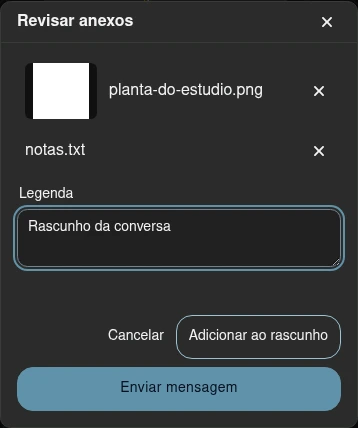
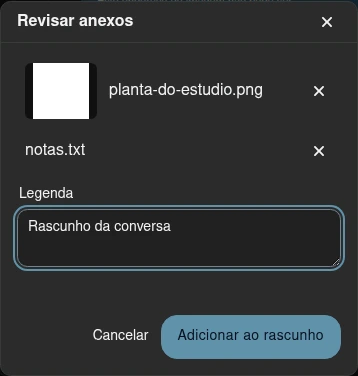
Documentar o menu de anexos e localização

diff --git a/content/docs/manual/index.md b/content/docs/manual/index.md
@@ -58,19 +58,21 @@ Os resultados destacam os termos encontrados e mostram a conta e a conversa de o
 
 Os atalhos **Mídia**, **Links** e **Documentos** abrem o catálogo com o mesmo texto de busca e as contas selecionadas. Para uma consulta rápida em todas as contas, use [Ctrl + K ou ⌘ + K](../atalhos/index.md#busca-geral). A consulta dessa janela é independente da busca da lista.
 
-## Enviar arquivos
+## Adicionar arquivos e localização
 
 A revisão de anexos ao colar ou arrastar arquivos está disponível em compilações de desenvolvimento que incluem essa mudança. O instalador publicado da v0.0.1-rc.8 é anterior a esse recurso.
 
-No navegador, cole uma imagem ou um arquivo no campo de mensagem ou arraste arquivos para a conversa. Você também pode selecionar os arquivos em **Adicionar anexo**. Na janela **Revisar anexos**, confira os arquivos, ajuste a legenda e remova o que não quiser enviar.
+Na conversa, abra **+** e escolha **Imagem**, **Arquivo** ou **Localização**. No navegador, também dá para colar uma imagem ou um arquivo no campo de mensagem ou arrastá-lo para a conversa.
 
-![Janela Revisar anexos com uma imagem, um arquivo de texto, o campo Legenda e as opções de rascunho ou envio.](imagens/revisar-anexos.webp)
+Em **Revisar anexos**, confira os arquivos, ajuste a legenda e remova o que precisar. **Adicionar ao rascunho** guarda a legenda e os anexos. **Cancelar** ou **Esc** mantém o rascunho anterior.
+
+![Janela Revisar anexos com uma imagem, um arquivo de texto, o campo Legenda e o botão Adicionar ao rascunho.](imagens/revisar-anexos.webp)
 
 [Ver a captura da revisão de anexos no tamanho original](imagens/revisar-anexos.webp)
 
-- **Enviar mensagem** envia os arquivos selecionados junto com a legenda.
-- **Adicionar ao rascunho** guarda a legenda e os anexos na conversa. Use essa opção também se quiser agendar o envio.
-- **Cancelar** ou **Esc** fecha a revisão e mantém o rascunho que você já tinha.
+Em **Localização**, cole um link de mapa ou escolha **Usar localização atual**, quando disponível. Use **Adicionar ao rascunho** para incluir o link no texto da conversa.
+
+Quando o rascunho estiver pronto, use **Enviar mensagem** na conversa ou escolha **Agendar mensagem** no menu de envio.
 
 O Oiê aceita até 16 arquivos de 20 MiB por mensagem. O serviço XMPP pode impor um limite menor ou não oferecer envio de arquivos. Quem recebe a mensagem pode baixar os arquivos pelos links enviados junto com a legenda.
 

diff --git a/README.md b/README.md
@@ -29,7 +29,7 @@ A página **Baixar** aponta para os binários e para o código-fonte corresponde
 
 O manual, os atalhos, os exemplos do CLI e os guias de instalação e arquitetura foram revisados com a [main do aplicativo em 9929391](https://github.com/araihu/oie/tree/9929391579532045b61fcad8d8883f7e3a351215) e a [v0.0.1-rc.3](https://github.com/araihu/oie/releases/tag/v0.0.1-rc.3). Ao atualizar, registre o SHA das páginas revisadas e confira as notas da versão oferecida em **Baixar**. O contrato HTTP fica no [catálogo OpenAPI da Arai Hû](https://oapi.araihu.com/catalogs/oie/documents/engine-next/).
 
-A seção de revisão de anexos no manual foi conferida com a revisão de desenvolvimento do aplicativo `a3eb456d3cc6d819d80bfba676b7a1bd83520cf9`, posterior à v0.0.1-rc.8.
+A seção de revisão de anexos no manual foi conferida com a revisão de desenvolvimento do aplicativo `ad8aee5e416f54268b7a38db18293cb8610bdd22`, posterior à v0.0.1-rc.8.
 
 A seção de atualização via APT no guia de instalação foi conferida com a [main do aplicativo em baae7e6](https://github.com/araihu/oie/tree/baae7e69541d4f32e999fa277238d34c9808e427) e com o pacote publicado da [v0.0.1-rc.7](https://github.com/araihu/oie/releases/tag/v0.0.1-rc.7).
 
